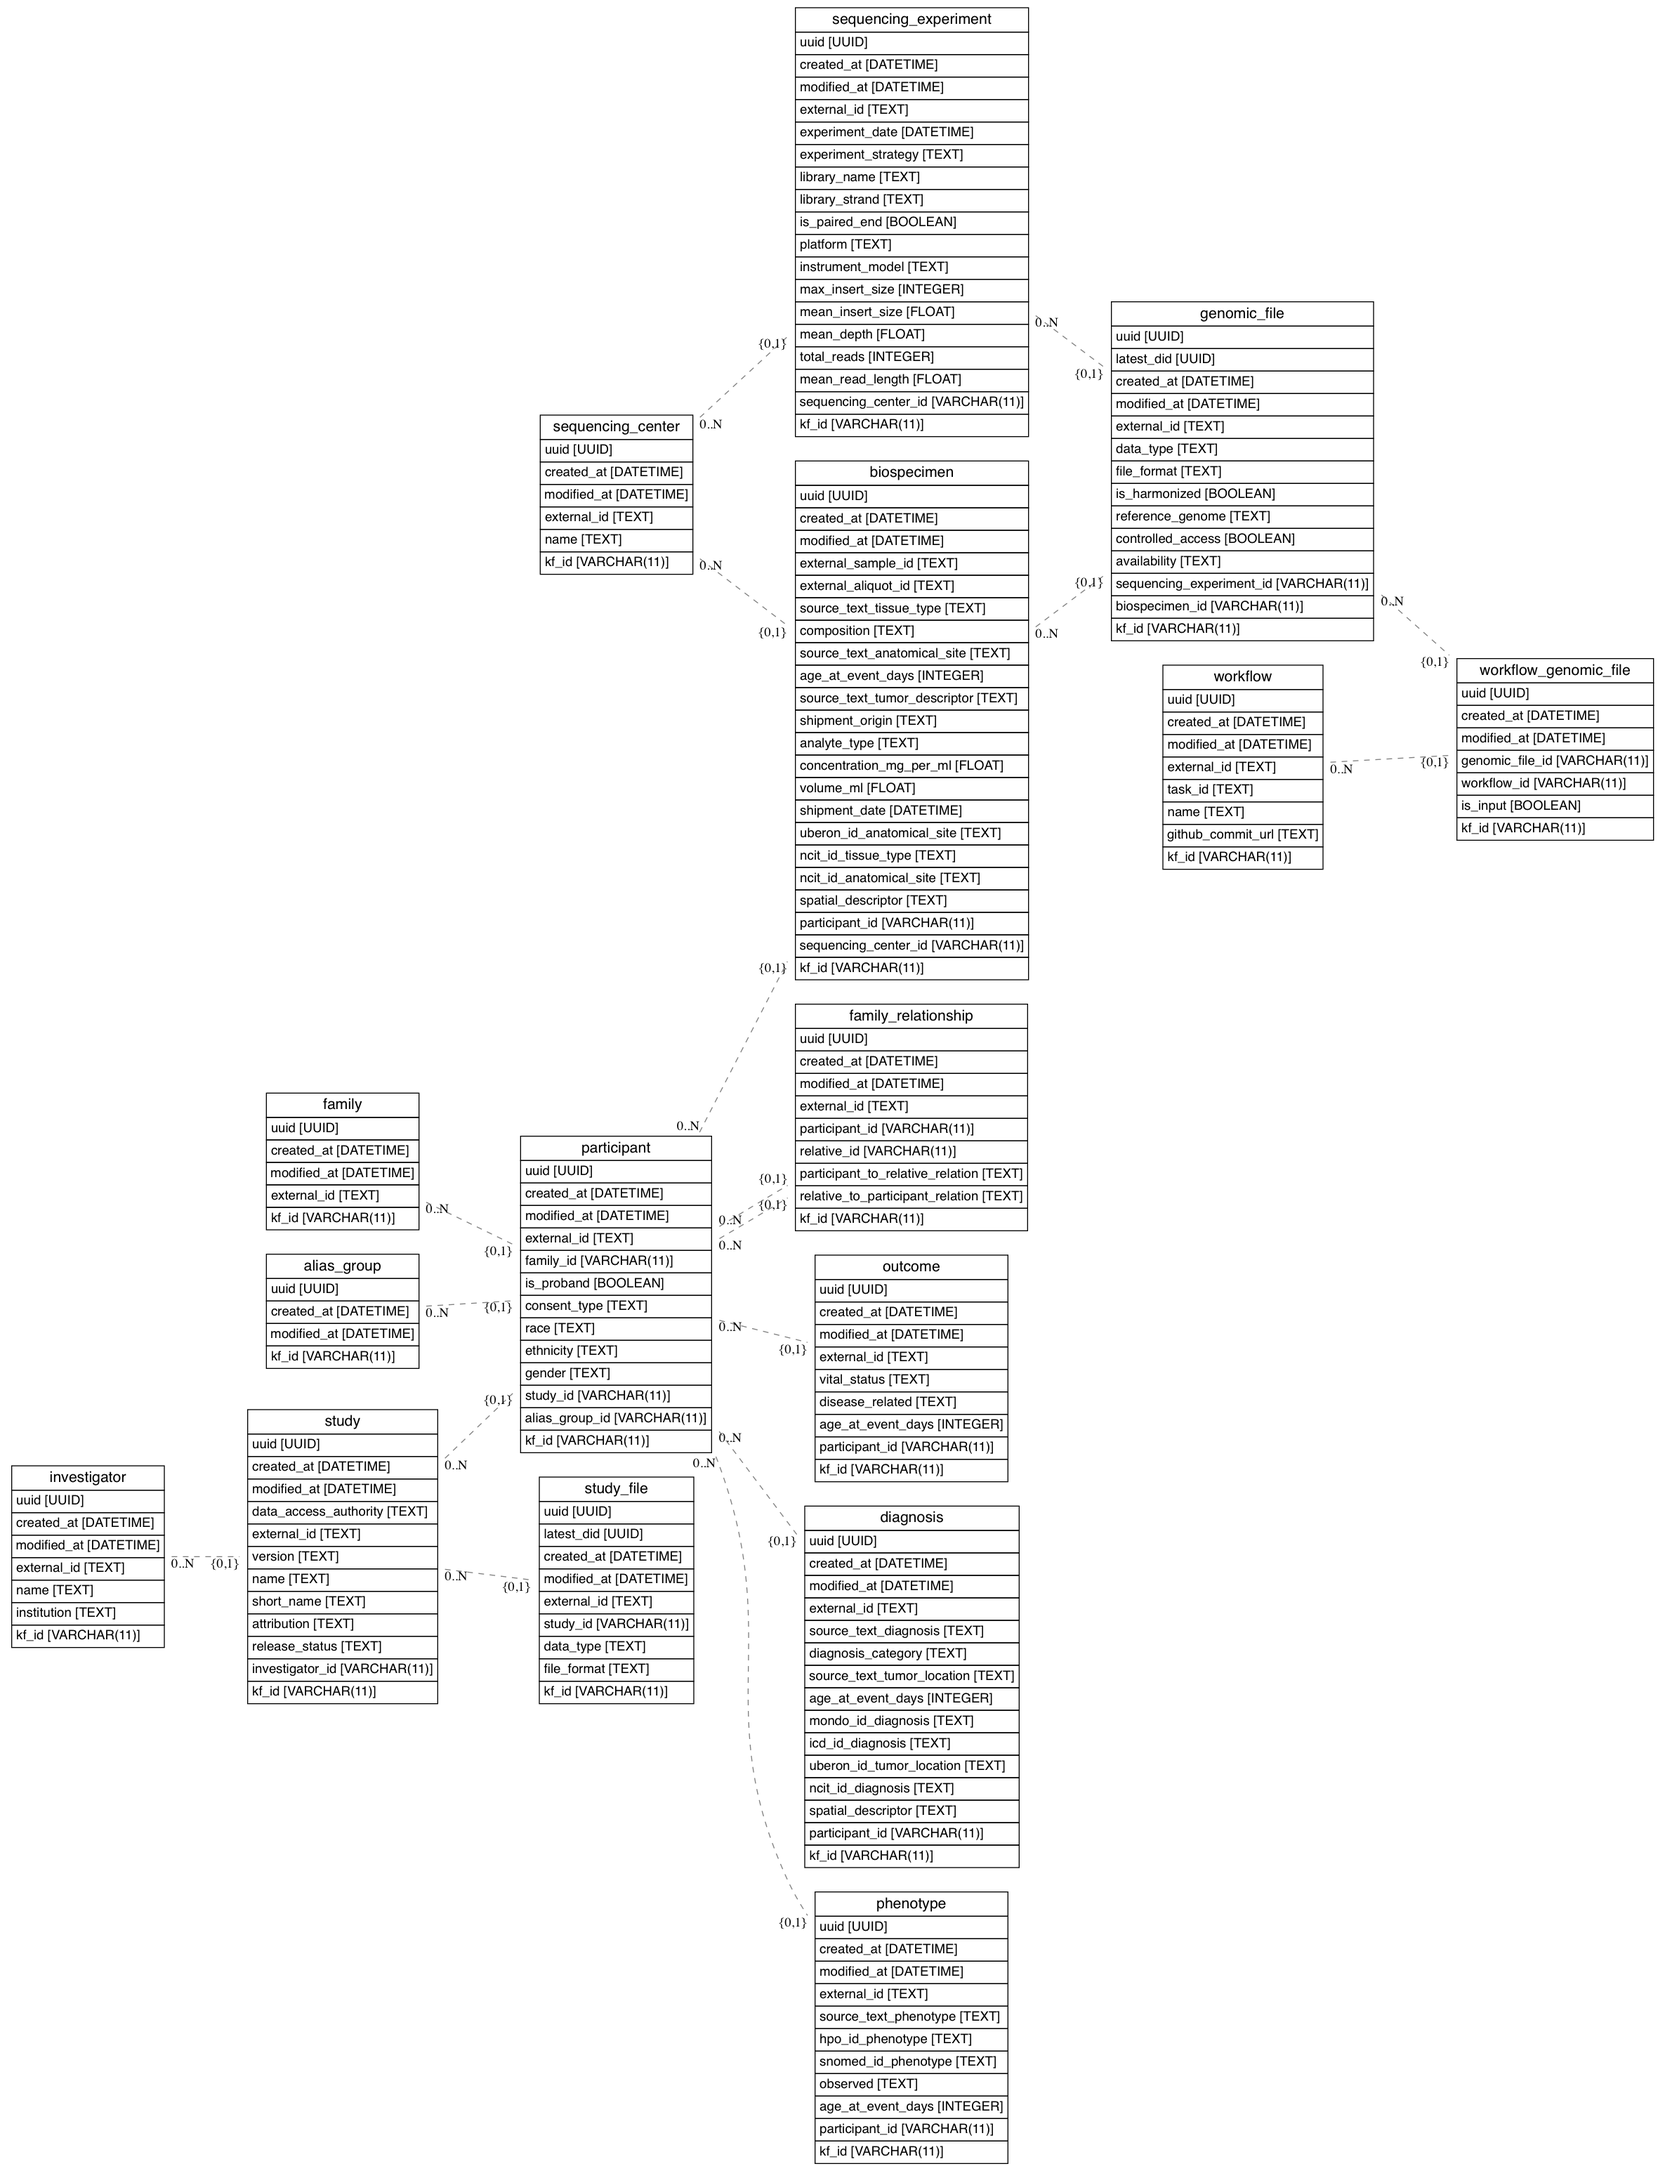
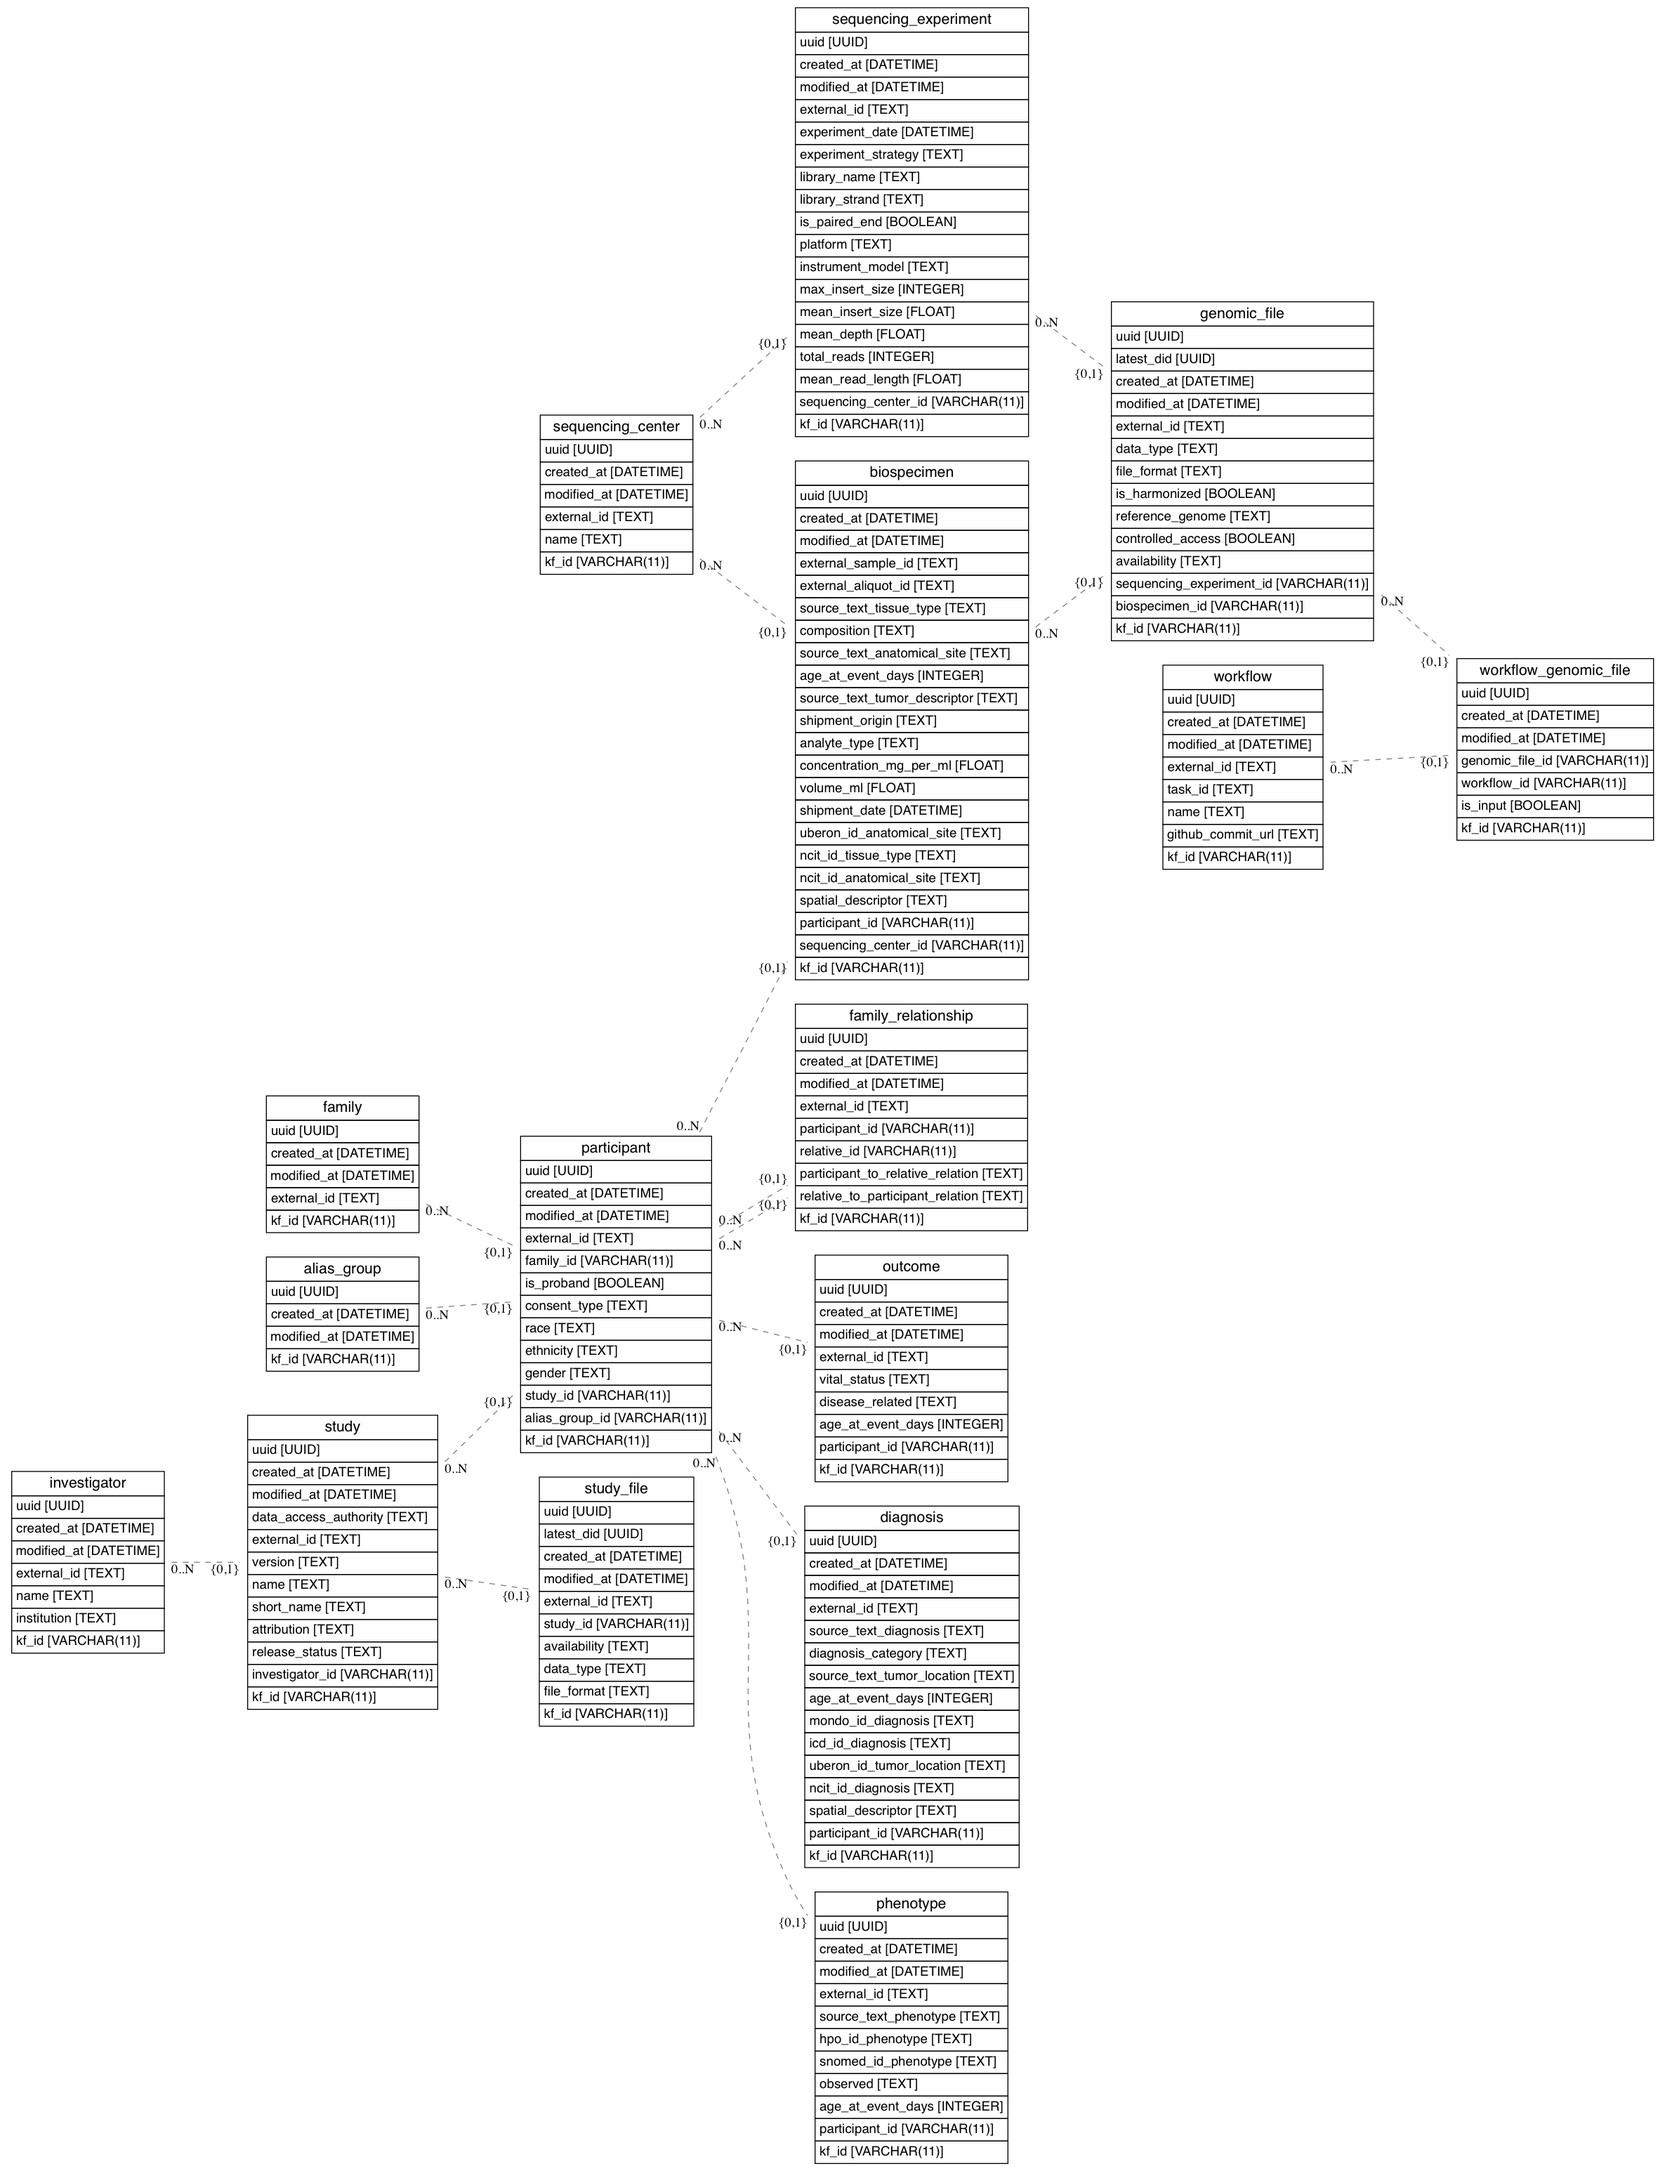
:sparkles::white_check_mark: Add availabilty to study_file

Changed region(s): [[0.1248, 0.4969, 0.2497, 0.8075], [0.0, 0.6522, 0.0936, 0.7764], [0.3121, 0.7454, 0.4057, 0.8075]]

diff --git a/tests/study_file/test_study_file_resources.py b/tests/study_file/test_study_file_resources.py
@@ -22,6 +22,7 @@ def study_files(client, entities):
         'file_name': 'my_data.csv',
         'study_id': Study.query.first().kf_id,
         'size': 1024,
+        'availability': 'available for download',
         'urls': ['s3://mystudy/my_data.csv'],
         'hashes': {
             'md5': str(uuid.uuid4()).replace('-', '')
@@ -44,6 +45,7 @@ def _new_study_file(client):
         'study_id': Study.query.first().kf_id,
         'data_type': 'clinical',
         'file_format': 'csv',
+        'availability': 'available for download',
         'size': 1024,
         'urls': ['s3://mystudy/my_data.csv'],
         'hashes': {
@@ -51,8 +53,8 @@ def _new_study_file(client):
         }
     }
     response = client.post(url_for(STUDY_FILE_LIST_URL),
-                                headers={'Content-Type': 'application/json'},
-                                data=json.dumps(body))
+                           headers={'Content-Type': 'application/json'},
+                           data=json.dumps(body))
     resp = json.loads(response.data.decode("utf-8"))
     assert response.status_code == 201
     return resp
@@ -98,6 +100,7 @@ def test_get_list_with_missing_files(client, indexd, study_files):
     response_mock = MagicMock()
     response_mock.status_code = 404
     response_mock.json.return_value = {'error': 'no record found'}
+
     def get(*args, **kwargs):
         return response_mock
     indexd.get.side_effect = get
@@ -114,6 +117,7 @@ def test_get_list_with_missing_files(client, indexd, study_files):
     for res in resp['results']:
         assert 'kf_id' in res
     assert indexd.get.call_count == 103
+
 
 def test_get_one(client, entities):
     """
@@ -162,8 +166,8 @@ def test_update(client, indexd, entities):
     }
 
     response = client.patch(url_for(STUDY_FILE_URL,
-                                  kf_id=kf_id),
-                               data=json.dumps(body),
+                                    kf_id=kf_id),
+                            data=json.dumps(body),
                             headers={'Content-Type': 'application/json'})
 
     assert indexd.post.call_count == orig_calls + 1
@@ -217,6 +221,7 @@ def test_delete_error(client, indexd, entities):
     response_mock = MagicMock()
     response_mock.status_code = 500
     response_mock.json.return_value = {'error': 'fake error message'}
+
     def exc():
         raise HTTPError()
     response_mock.raise_for_status = exc

diff --git a/tests/study_file/test_study_file_models.py b/tests/study_file/test_study_file_models.py
@@ -1,4 +1,3 @@
-import pytest
 from sqlalchemy.exc import IntegrityError
 
 from dataservice.extensions import db
@@ -37,7 +36,8 @@ class ModelTest(IndexdTestCase):
 
         # Add new study_file to study
         sf_new = StudyFile(file_name='file_3',
-                            study_id=study.kf_id)
+                           study_id=study.kf_id,
+                           availability='available for download')
         db.session.add(sf_new)
         db.session.commit()
 
@@ -134,9 +134,10 @@ class ModelTest(IndexdTestCase):
         study_files = []
         for i in range(3):
             kwargs = {
-                'external_id':'test_study_file_{}'.format(i),
+                'external_id': 'test_study_file_{}'.format(i),
                 'file_name': 'file_{}'.format(i),
-                'study_id':study.kf_id
+                'availability': 'available for download',
+                'study_id': study.kf_id
             }
             study_files.append(StudyFile(**kwargs))
         # Add study_files to study

diff --git a/dataservice/api/study_file/models.py b/dataservice/api/study_file/models.py
@@ -16,7 +16,8 @@ class StudyFile(db.Model, Base, IndexdFile):
     :param urls: Locations of file
     :param hashes: A dict keyed by hash type containing hashes of the file
     :param _metadata: A dict with any additional information
-    :param controlled_access: whether or not the file is controlled access
+    :param availability: Indicates whether a file is available for immediate
+           download, or is in cold storage
     """
     __tablename__ = 'study_file'
     __prefix__ = 'SF'
@@ -26,6 +27,9 @@ class StudyFile(db.Model, Base, IndexdFile):
     study_id = db.Column(KfId(),
                          db.ForeignKey('study.kf_id'),
                          nullable=False)
+    availability = db.Column(db.Text(), doc='Indicates whether a file is '
+                             'available for immediate download, or is in '
+                             'cold storage')
     data_type = db.Column(db.Text(), doc='Type of data')
     file_format = db.Column(db.Text(), doc='Format of the file')
 

diff --git a/tests/conftest.py b/tests/conftest.py
@@ -152,6 +152,7 @@ def entities(client, indexd):
             'file_name': 'test_file_name 1',
             'data_type': 'clinical',
             'file_format': 'csv',
+            'availability': 'available for download',
             'size': 1000,
             'urls': ['s3://bucket/key'],
             'hashes': {'md5': str(uuid.uuid4())}
@@ -243,7 +244,8 @@ def entities(client, indexd):
     # Genomic File and Sequencing Experiment
     inputs['/genomic-files']['sequencing_experiment_id'] = seq_exp.kf_id
     # Sequencing_experiment and sequencing_center
-    inputs['/sequencing-experiments']['sequencing_center_id'] = seq_center.kf_id
+    inputs['/sequencing-experiments']['sequencing_center_id'] =\
+        seq_center.kf_id
     # Biospecimen and sequencing_center
     inputs['/biospecimens']['sequencing_center_id'] = seq_center.kf_id
 

diff --git a/migrations/versions/719d457de080_.py b/migrations/versions/719d457de080_.py
@@ -1,0 +1,30 @@
+"""
+Add availability to study_file
+
+Revision ID: 719d457de080
+Revises: d9ba1b15d196
+Create Date: 2018-04-26 11:31:36.052761
+
+"""
+from alembic import op
+import sqlalchemy as sa
+
+
+# revision identifiers, used by Alembic.
+revision = '719d457de080'
+down_revision = 'd9ba1b15d196'
+branch_labels = None
+depends_on = None
+
+
+def upgrade():
+    # ### commands auto generated by Alembic - please adjust! ###
+    op.add_column('study_file', sa.Column(
+        'availability', sa.Text(), nullable=True))
+    # ### end Alembic commands ###
+
+
+def downgrade():
+    # ### commands auto generated by Alembic - please adjust! ###
+    op.drop_column('study_file', 'availability')
+    # ### end Alembic commands ###

diff --git a/dataservice/api/genomic_file/models.py b/dataservice/api/genomic_file/models.py
@@ -1,4 +1,3 @@
-from sqlalchemy.dialects.postgresql import UUID
 from dataservice.extensions import db
 from dataservice.api.common.model import Base, IndexdFile, KfId
 
